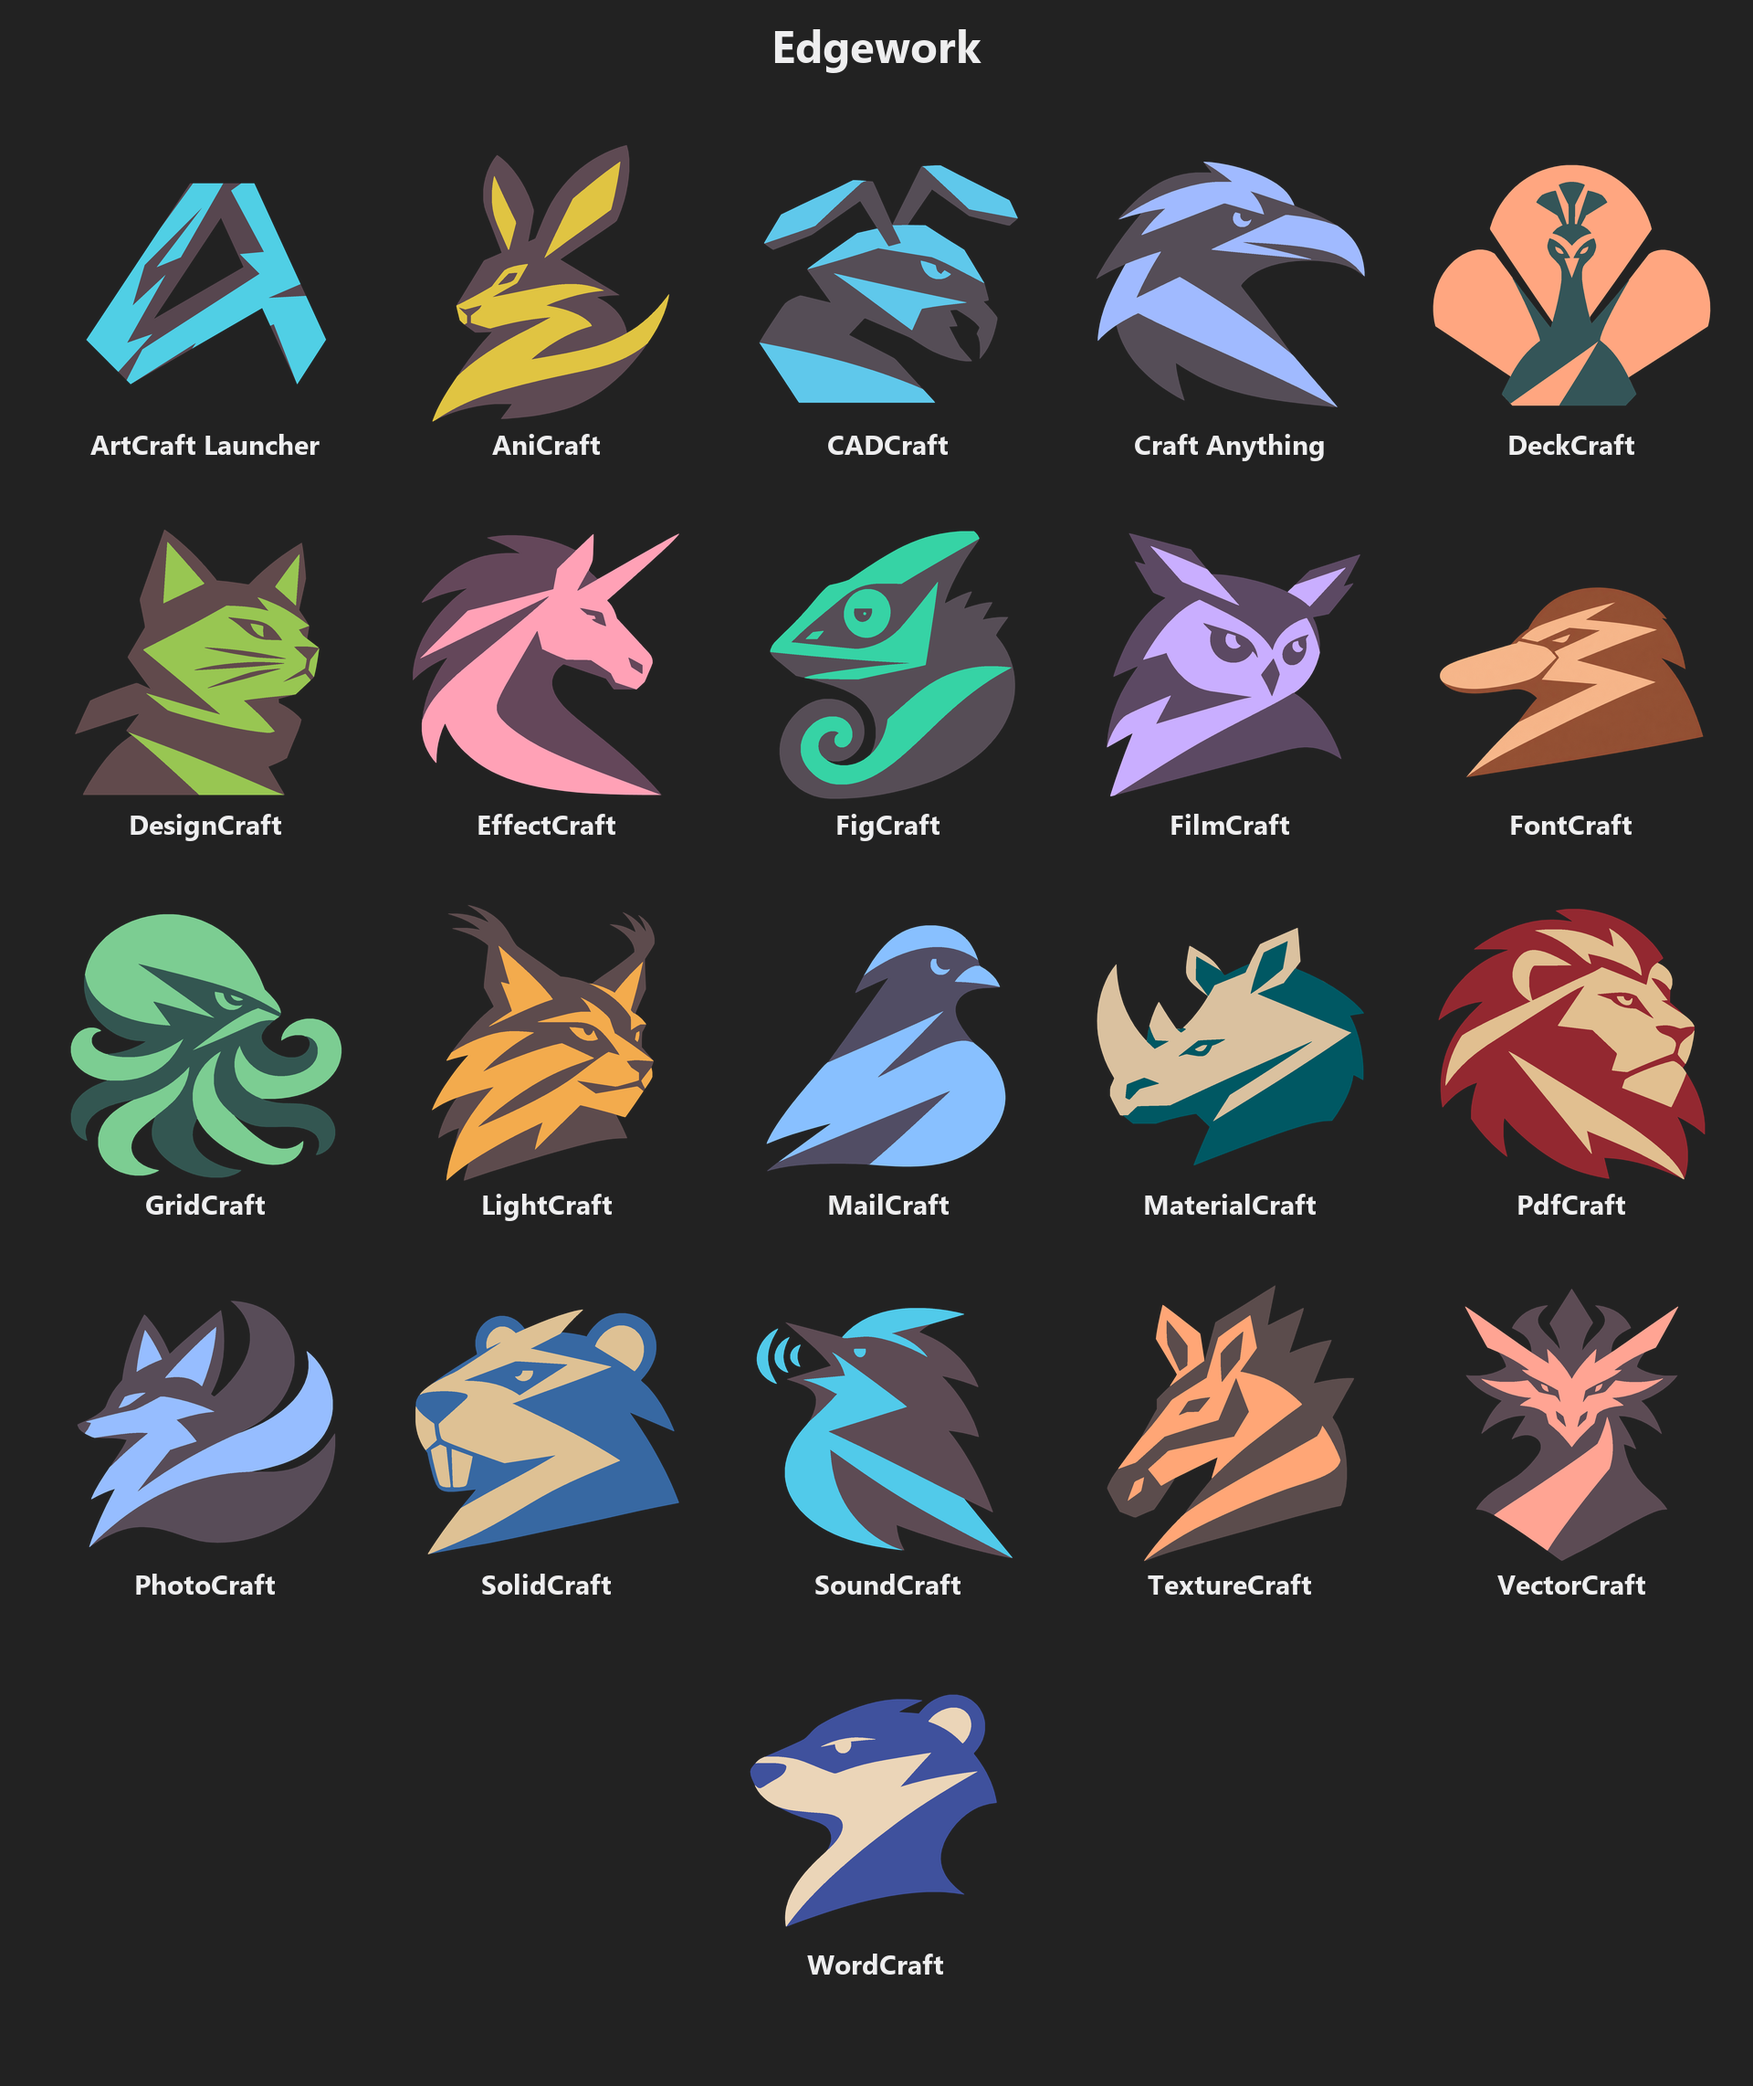
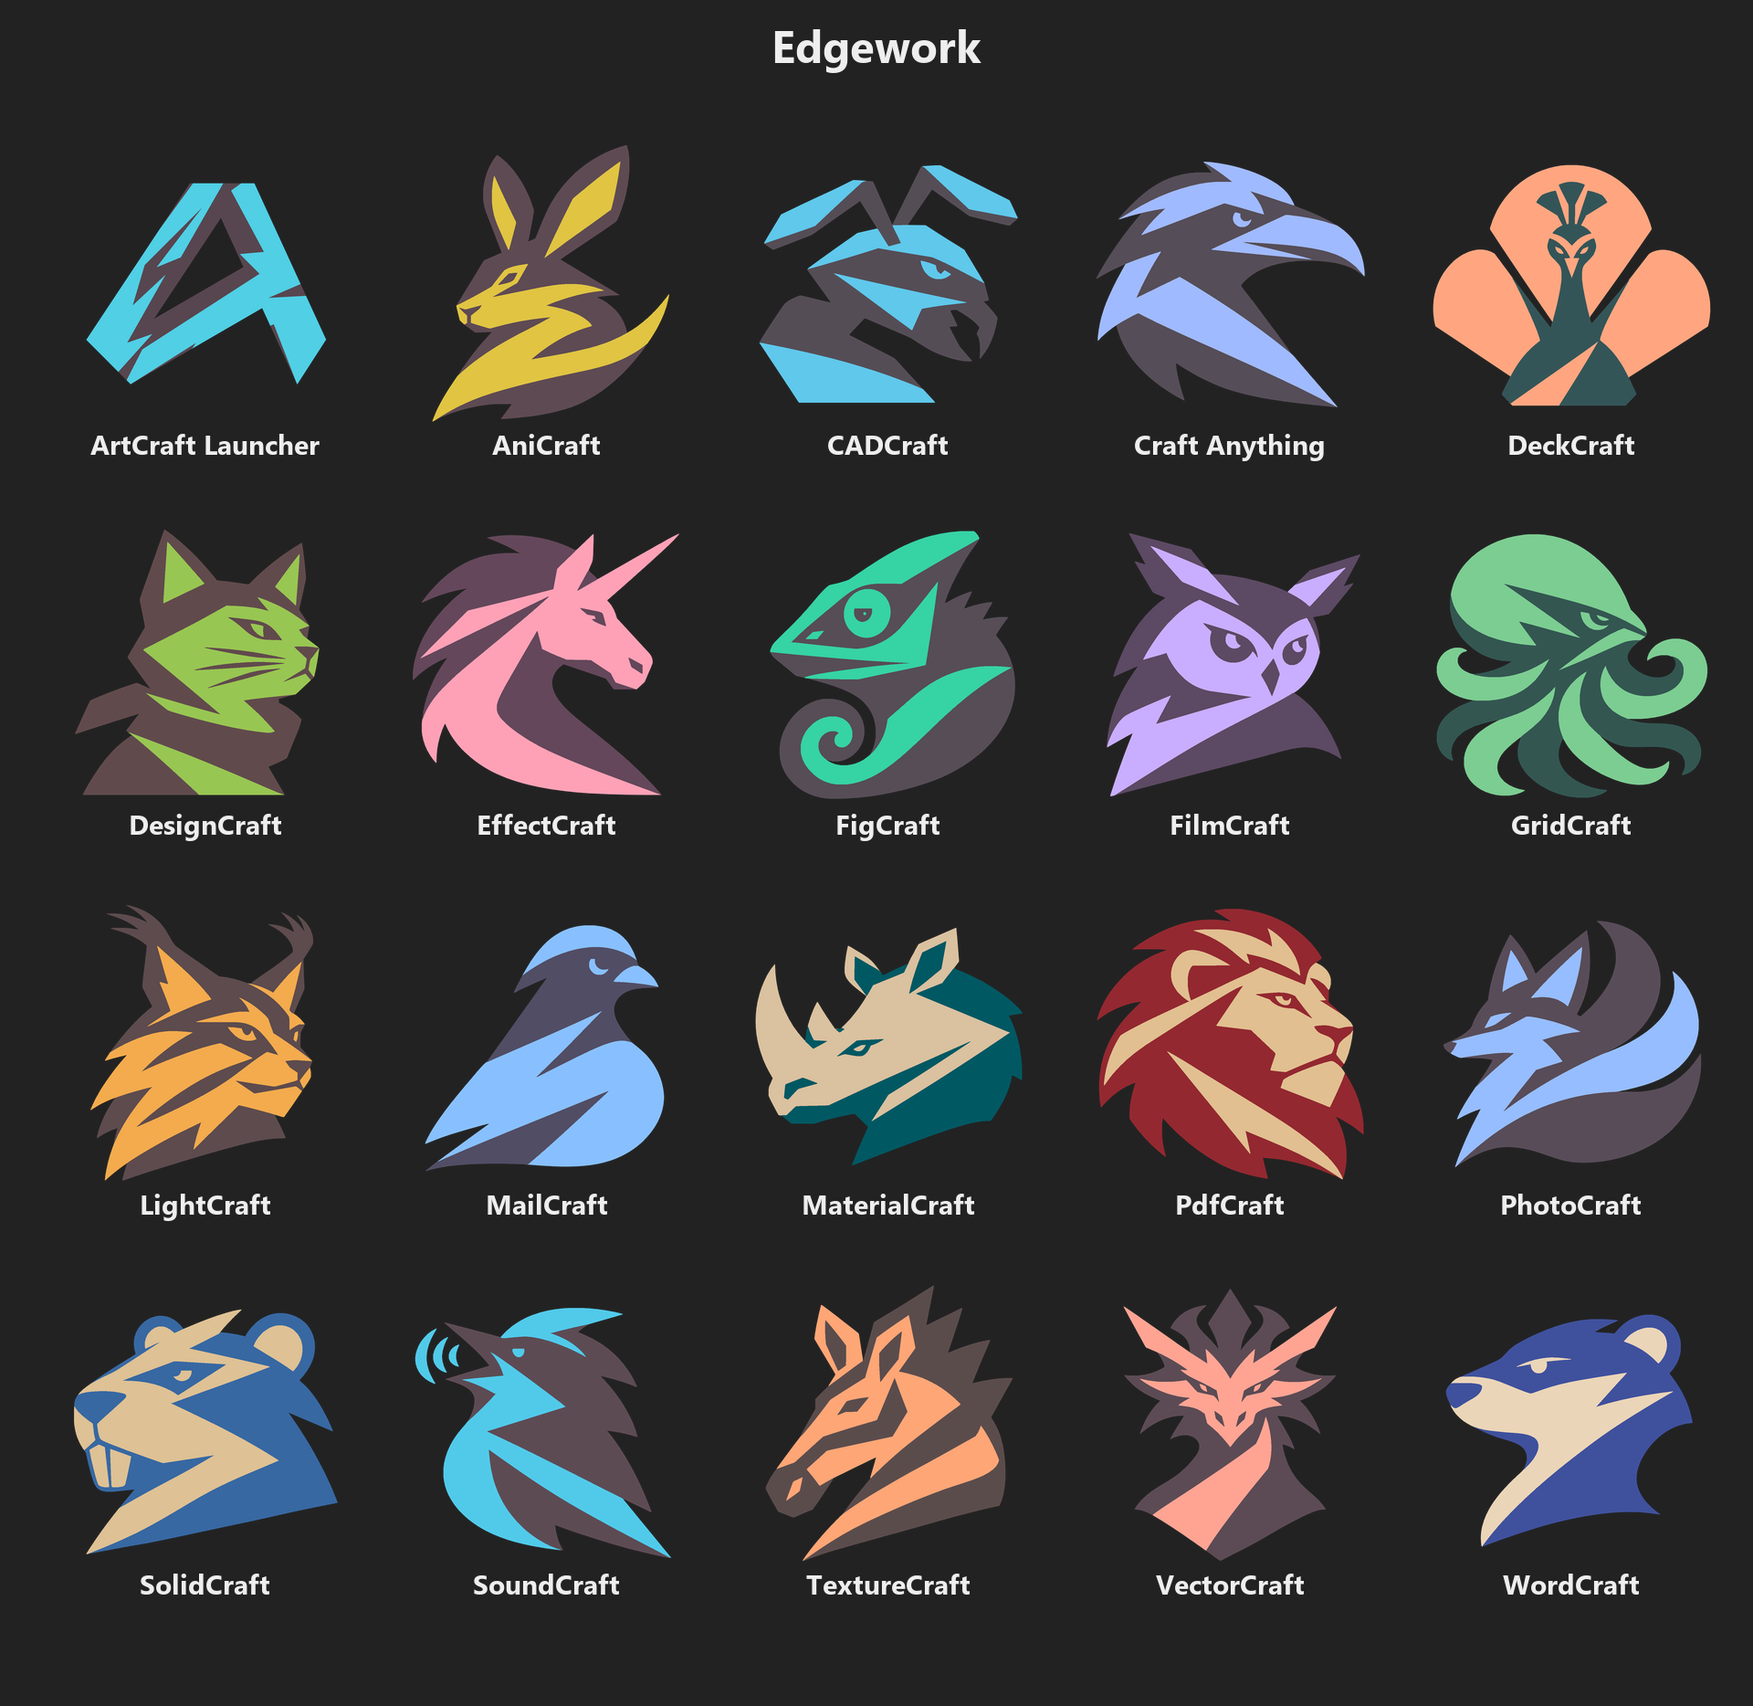
Keep the published BetterIcon packs scoped to ArtCraft apps

diff --git a/Craft-Icons-OmegaDarling/README.md b/Craft-Icons-OmegaDarling/README.md
@@ -1,6 +1,6 @@
 # OmegaDarling icon themes
 
-Nine themes with ArtCraft Launcher. Edgework and Foldmark each have 21 icons including FontCraft, and the other seven themes have 20.
+Nine themes with 20 icons each, including ArtCraft Launcher.
 
 | Theme | Example sheet |
 | --- | --- |
@@ -14,7 +14,7 @@ Nine themes with ArtCraft Launcher. Edgework and Foldmark each have 21 icons inc
 | [NegativeSpace](NegativeSpace/) | [Preview](7.%20NegativeSpace.png) |
 | [Pop](Pop/) | [Preview](Pop.png) |
 
-Edgework and Foldmark include editable SVG sources and approved full-resolution PNGs. BetterIcon 1.26.3 downloads the 20 recognized app icons in each theme as SVG. FontCraft artwork is available in the editable SVG and PNG download folders. The other themes use full-resolution PNGs. CADCraft uses the ant mascot in every theme.
+Edgework and Foldmark include editable SVG sources and approved full-resolution PNGs. BetterIcon 1.26.3 downloads the 20 recognized app icons in each theme as SVG. The other themes use full-resolution PNGs. CADCraft uses the ant mascot in every theme.
 
 - Edgework [SVG sources](Edgework/svg/) and [PNG exports](Edgework/png/)
 - Foldmark [SVG sources](Foldmark/svg/) and [PNG exports](Foldmark/png/)

diff --git a/README.md b/README.md
@@ -37,7 +37,7 @@ BetterIcon checks for new and updated icon packs at startup and about every 30 m
 
 VimiummuimiV’s eight Modern Flat variations now appear as one 13-icon pack. If you used a former variant for apps or project files, BetterIcon 1.26.1 remembers that choice in the corresponding picker. Matching downloads work offline immediately. If your cached artwork differs, you can keep using it until you select **Modern Flat** to download the update. [Modern Flat artwork and sources](Craft-Icons-VimiummuimiV/)
 
-The nine themes in [Craft-Icons-OmegaDarling](Craft-Icons-OmegaDarling/) are by **OmegaDarling**. All include ArtCraft Launcher. Edgework and Foldmark each contain 21 icons. Existing `Craft-Icons-Zach` theme IDs remain compatible.
+The nine themes in [Craft-Icons-OmegaDarling](Craft-Icons-OmegaDarling/) are by **OmegaDarling**. Each contains 20 icons, including ArtCraft Launcher. Existing `Craft-Icons-Zach` theme IDs remain compatible.
 
 The selected ArtCraft Discord artwork is organized by the posting creator. Each style folder contains app-named PNGs and a BetterIcon pack description. The folders can be imported individually in Manage Icons.
 
